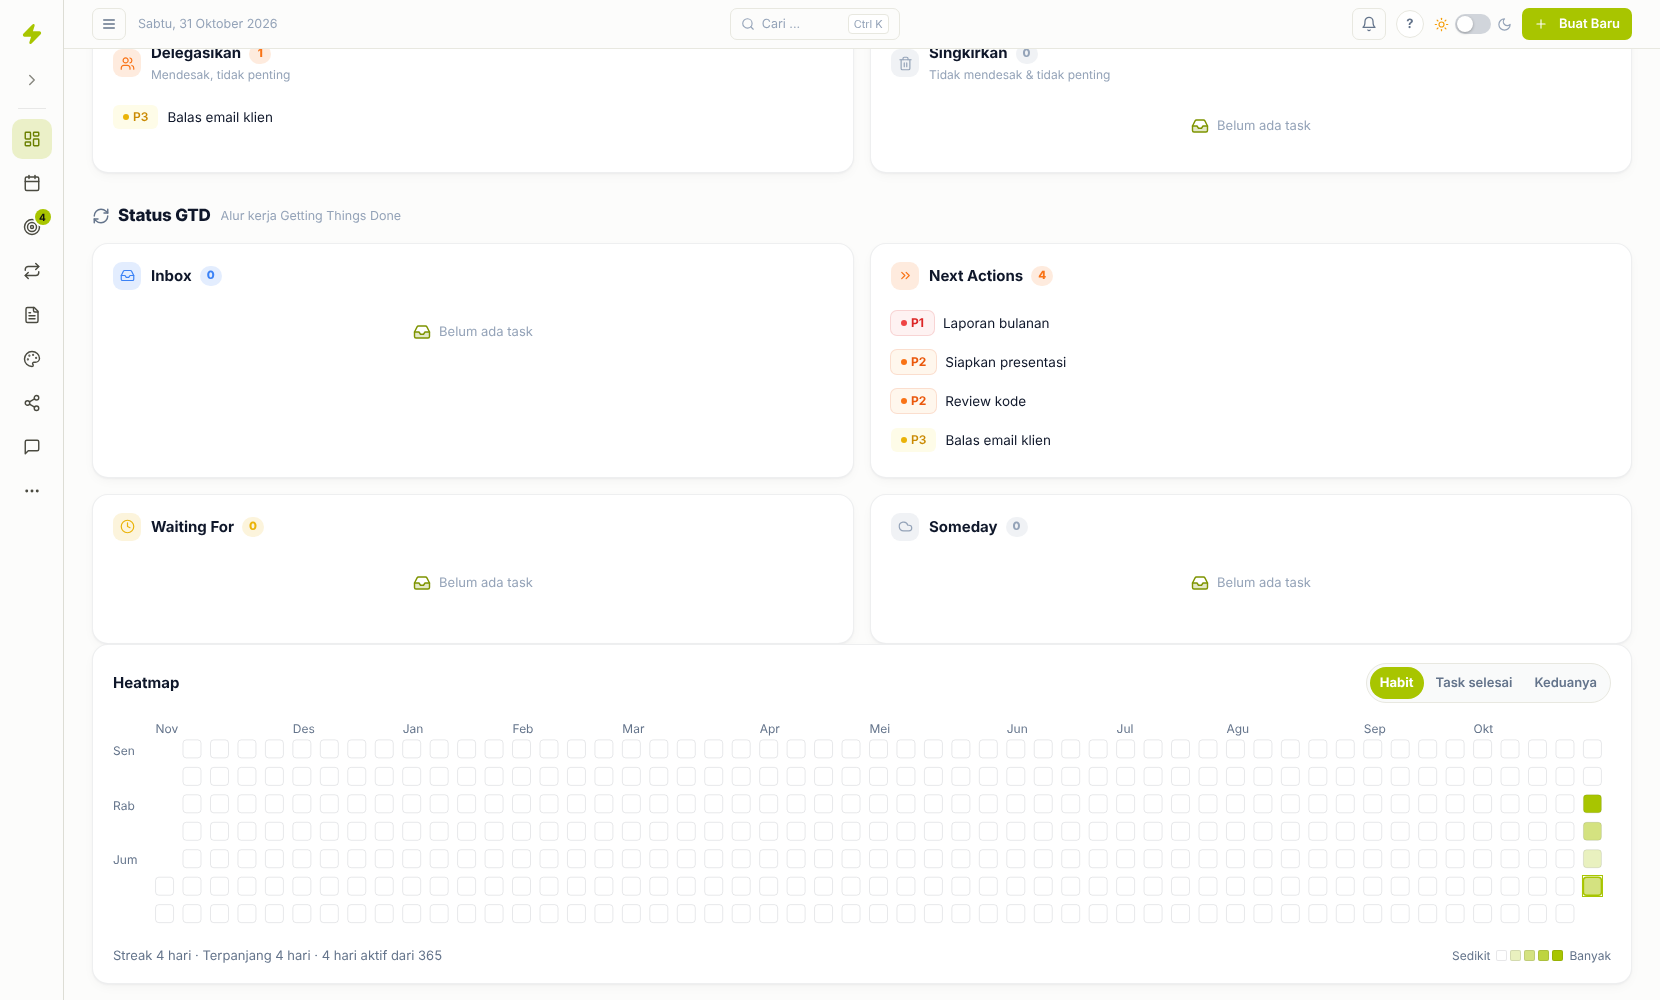
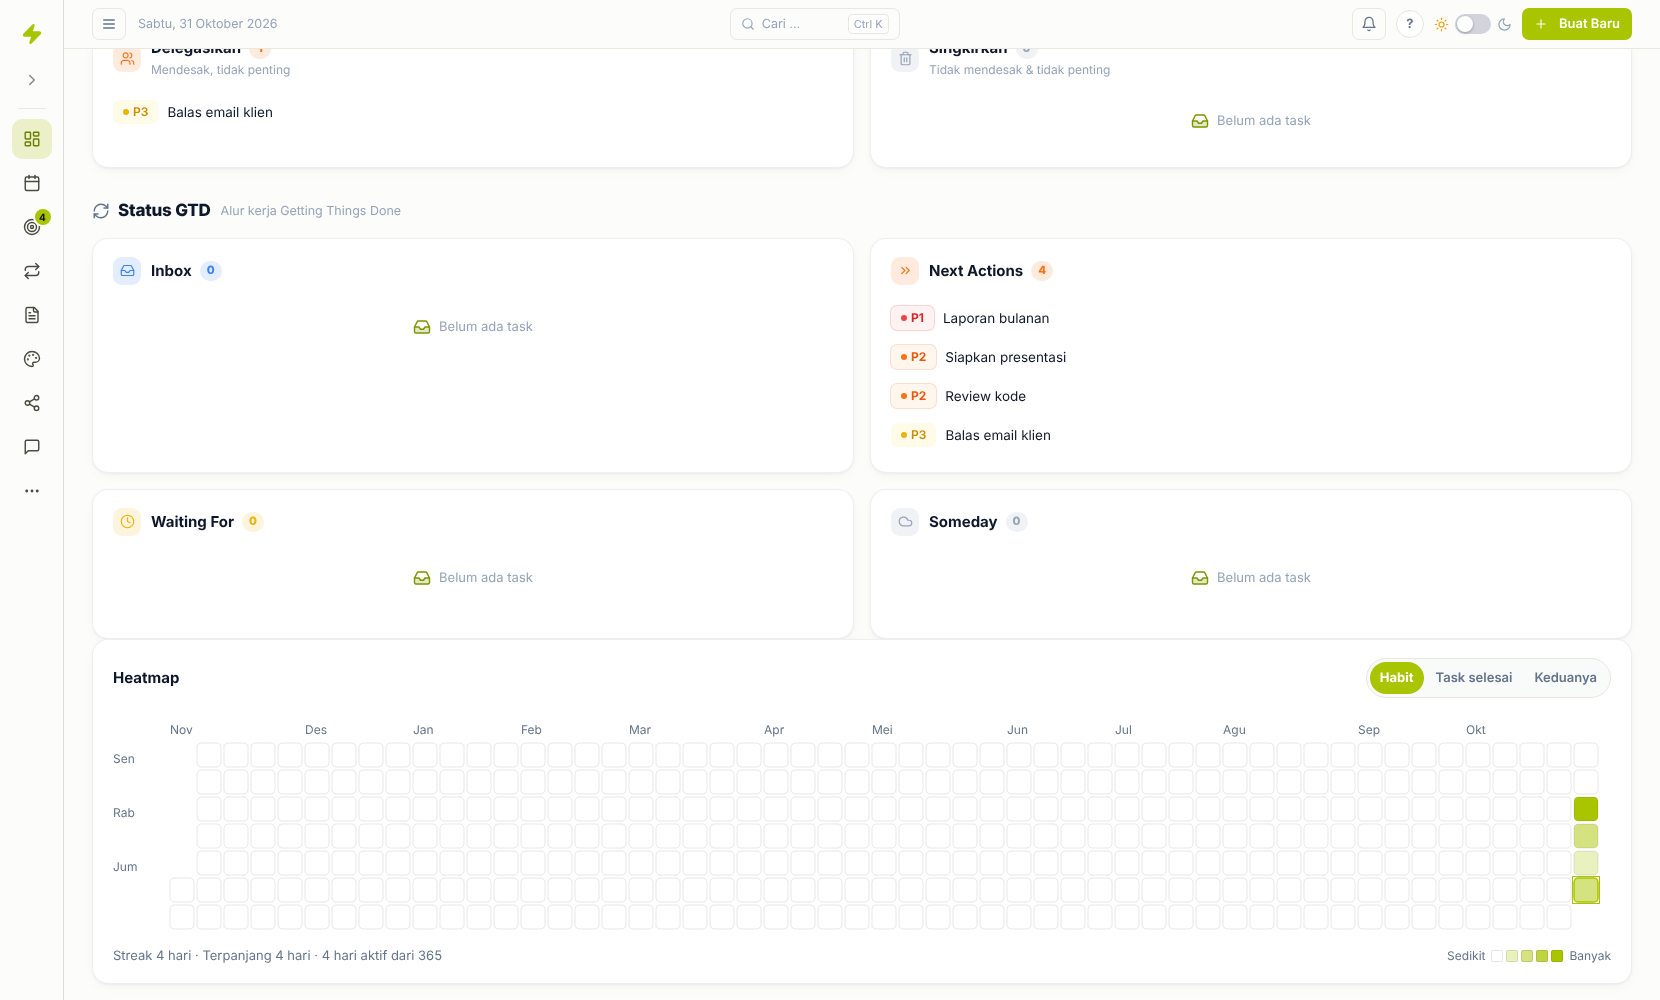
fix(plugin): heatmap memperbesar kotak, gap tetap rapat
Claude-Session: https://claude.ai/code/session_017DL2c7R2bzyzTD7wppPo72

diff --git a/tests/offline/habit_heatmap_ui.test.js b/tests/offline/habit_heatmap_ui.test.js
@@ -115,32 +115,45 @@ for (const cols of [53, 26]) {
   });
 }
 
-test("cellSize(containerWidth, cols): 11–18 px untuk lebar 600/1100/1600 (53 kolom), monoton, HP 26 kolom tetap 11", () => {
+test("cellSize(containerWidth, cols): 11–26 px untuk lebar 600/1100/1600 (53 kolom), monoton, HP 26 kolom tetap 11", () => {
   const sizes = [600, 1100, 1600].map((w) => H.cellSize(w, 53));
-  for (const c of sizes) assert.ok(c >= 11 && c <= 18, "dalam 11–18: " + c);
+  for (const c of sizes) assert.ok(c >= 11 && c <= 26 && Number.isInteger(c), "px utuh dalam 11–26: " + c);
   assert.ok(sizes[0] <= sizes[1] && sizes[1] <= sizes[2], "monoton: " + sizes);
   assert.equal(sizes[0], 11, "600 px terlalu sempit untuk 53 kolom → minimum 11");
-  assert.ok(sizes[1] > 11 && sizes[1] < 18, "1100 px di antara batas: " + sizes[1]);
-  assert.equal(sizes[2], 18, "1600 px → maksimum 18");
+  assert.ok(sizes[1] > 11 && sizes[1] < 26, "1100 px di antara batas: " + sizes[1]);
+  assert.ok(sizes[2] > 18 && sizes[2] <= 26, "1600 px → kotak membesar (> 18): " + sizes[2]);
+  assert.equal(H.cellSize(2500, 53), 26, "sangat lebar → maksimum 26");
   assert.equal(H.cellSize(343, 26), 11, "HP 375 px (kartu ±343 px) tetap 11 → scroll internal");
   assert.equal(H.cellSize(0, 53), 11, "belum terukur → 11");
   assert.equal(H.cellSize(undefined, 53), 11);
 });
 
-test("geometry: jarak ≈2–3 px selama kotak < 18; lebar grid = lebar kontainer saat kotak di antara batas; label ikut skala", () => {
+test("geometry: gap ≈14% kotak dibatasi 2–4 px (px utuh); grid ≥ 90% kontainer dan tidak melebihinya; batas 26 → sisa di kanan, gap tidak melebar", () => {
   const g11 = H.geometry(0, 53);
   assert.deepEqual([g11.cell, g11.gap, g11.step, g11.left, g11.top], [11, 2, 13, 26, 14], "fallback = tata letak 1.0");
   assert.equal(g11.font, 9);
+  for (const w of [900, 1100, 1300, 1498, 1600, 2500]) {
+    const g = H.geometry(w, 53);
+    assert.ok(Number.isInteger(g.cell) && Number.isInteger(g.gap) && Number.isInteger(g.left) && Number.isInteger(g.top), "px utuh @" + w);
+    assert.ok(g.gap >= 2 && g.gap <= 4, "gap 2–4 @" + w + ": " + g.gap);
+    assert.equal(g.gap, Math.min(4, Math.max(2, Math.round(g.cell * 0.14))), "gap ≈14% kotak @" + w);
+    assert.ok(g.width <= w, "tidak melebihi kontainer @" + w + ": " + g.width);
+    if (g.cell < 26) assert.ok(g.width >= 0.9 * w, "≥ 90% @" + w + ": " + g.width);
+  }
   const g = H.geometry(1100, 53);
-  assert.ok(g.gap >= 2 && g.gap <= 3, "gap " + g.gap);
-  assert.ok(Math.abs(g.width - 1100) < 1, "mengisi 1100: " + g.width);
   assert.ok(g.font > 9 && g.left > 26 && g.top > 14, "label ikut skala");
-  const w = H.geometry(1500, 53);
-  assert.equal(w.cell, 18);
-  assert.ok(w.width >= 0.9 * 1500 && w.width <= 1500, "kontainer sangat lebar tetap terisi ≥ 90%: " + w.width);
+  const w = H.geometry(1498, 53);
+  assert.ok(w.cell >= 22 && w.cell <= 26 && w.gap <= 4, "1660 px viewport (konten 1498): kotak ±24, gap ≤ 4: " + w.cell + "/" + w.gap);
+  const big = H.geometry(2500, 53);
+  assert.deepEqual([big.cell, big.gap], [26, 4], "batas 26: gap tetap 4, sisa ruang di kanan");
+  assert.ok(big.width < 2500);
   const m = H.geometry(343, 26);
   assert.equal(m.cell, 11);
   assert.ok(m.width > 343, "HP: grid lebih lebar → scroll internal");
+});
+
+test("legenda: kotak 12 px tetap", () => {
+  assert.match(css, /\.plg-heatmap-legend-cell\s*\{[^}]*width:\s*12px;[^}]*height:\s*12px;/);
 });
 
 test("HeatmapSvg memakai geo: ukuran kotak, langkah kolom, lebar svg, font label", () => {

diff --git a/static/plugins/habit-heatmap/plugin.js b/static/plugins/habit-heatmap/plugin.js
@@ -21,9 +21,13 @@ const METRIC_NAMES = {
   both: "habit dan task"
 };
 // Geometri dasar (1.0): kotak 11 px, jarak 2, kolom label hari 26, baris label bulan 14, font label 9.
-// 1.1: ukuran kotak mengikuti lebar kontainer, dibatasi CELL_MIN–CELL_MAX; label & tepi ikut skala.
+// 1.1: ukuran kotak mengikuti lebar kontainer, dibatasi CELL_MIN–CELL_MAX; jarak ≈ 14% kotak (2–4 px); kotak dan
+// jarak dibulatkan ke px utuh agar tajam; label & tepi ikut skala.
 const CELL_MIN = 11;
-const CELL_MAX = 18;
+const CELL_MAX = 26;
+const GAP_RATIO = 0.14;
+const GAP_MIN = 2;
+const GAP_MAX = 4;
 const K_LEFT = 26 / 11;
 const K_TOP = 14 / 11;
 const FONT_MAX = 12;
@@ -175,39 +179,31 @@ function svgLabel(metric, active) {
   return "Heatmap " + (METRIC_NAMES[metric] || METRIC_NAMES.habit) + ", " + active + " hari aktif";
 }
 const floor2 = v => Math.floor(v * 100) / 100;
+const gapFor = cell => Math.min(GAP_MAX, Math.max(GAP_MIN, Math.round(cell * GAP_RATIO)));
 
-// Tata letak grid untuk lebar kontainer `containerWidth` (px) dan `cols` kolom. Kotak CELL_MIN–CELL_MAX, jarak
-// ≈ kotak/6 (2–3 px). Kontainer lebih sempit dari grid minimum → kotak 11 (scroll internal seperti 1.0). Kontainer
-// lebih lebar dari grid maksimum → kotak tetap 18, sisa lebar dibagi ke jarak supaya grid tetap mengisi kartu.
+// Tata letak grid untuk lebar kontainer `containerWidth` (px) dan `cols` kolom. Kotak CELL_MIN–CELL_MAX px utuh,
+// jarak gapFor(kotak). Kontainer lebih sempit dari grid minimum → kotak 11 (scroll internal seperti 1.0). Kontainer
+// lebih lebar dari grid maksimum → kotak 26, sisa ruang di kanan (grid rata kiri; jarak tidak dilebarkan).
 // Belum terukur (0) → geometri 1.0.
 function geometry(containerWidth, cols) {
   const w = Number(containerWidth) > 0 ? Number(containerWidth) : 0;
-  let cell = w / (K_LEFT + cols * 7 / 6);
-  let gap = cell / 6;
-  if (gap < 2) {
-    cell = (w - 2 * cols) / (K_LEFT + cols);
-    gap = 2;
-  }
-  if (!(cell > CELL_MIN)) {
-    cell = CELL_MIN;
-    gap = 2;
-  } else if (cell >= CELL_MAX) {
-    cell = CELL_MAX;
-    gap = Math.max(3, (w - K_LEFT * CELL_MAX) / cols - CELL_MAX);
-  }
-  cell = floor2(cell);
-  gap = floor2(gap);
+  let cell = w / (K_LEFT + cols * (1 + GAP_RATIO));
+  for (let i = 0; i < 2; i++) cell = Math.floor((w - cols * gapFor(cell)) / (K_LEFT + cols));
+  cell = Math.min(CELL_MAX, Math.max(CELL_MIN, cell || 0));
+  const fits = c => Math.round(K_LEFT * c) + cols * (c + gapFor(c)) <= w;
+  while (cell > CELL_MIN && !fits(cell)) cell -= 1;
+  const gap = gapFor(cell);
   const step = cell + gap;
-  const left = floor2(K_LEFT * cell);
-  const top = floor2(K_TOP * cell);
+  const left = Math.round(K_LEFT * cell);
+  const top = Math.round(K_TOP * cell);
   return {
     cell,
     gap,
     step,
     left,
     top,
-    width: floor2(left + cols * step),
-    height: floor2(top + 7 * step),
+    width: left + cols * step,
+    height: top + 7 * step,
     font: floor2(Math.min(FONT_MAX, 9 * cell / 11)),
     rx: floor2(2 * cell / 11)
   };

diff --git a/static/plugins/habit-heatmap/plugin.jsx b/static/plugins/habit-heatmap/plugin.jsx
@@ -13,9 +13,13 @@ const DEBOUNCE_MS = 300;
 const METRICS = [["habit", "Habit"], ["task", "Task selesai"], ["both", "Keduanya"]];
 const METRIC_NAMES = { habit: "habit", task: "task selesai", both: "habit dan task" };
 // Geometri dasar (1.0): kotak 11 px, jarak 2, kolom label hari 26, baris label bulan 14, font label 9.
-// 1.1: ukuran kotak mengikuti lebar kontainer, dibatasi CELL_MIN–CELL_MAX; label & tepi ikut skala.
+// 1.1: ukuran kotak mengikuti lebar kontainer, dibatasi CELL_MIN–CELL_MAX; jarak ≈ 14% kotak (2–4 px); kotak dan
+// jarak dibulatkan ke px utuh agar tajam; label & tepi ikut skala.
 const CELL_MIN = 11;
-const CELL_MAX = 18;
+const CELL_MAX = 26;
+const GAP_RATIO = 0.14;
+const GAP_MIN = 2;
+const GAP_MAX = 4;
 const K_LEFT = 26 / 11;
 const K_TOP = 14 / 11;
 const FONT_MAX = 12;
@@ -145,25 +149,26 @@ function svgLabel(metric, active) {
 
 const floor2 = (v) => Math.floor(v * 100) / 100;
 
-// Tata letak grid untuk lebar kontainer `containerWidth` (px) dan `cols` kolom. Kotak CELL_MIN–CELL_MAX, jarak
-// ≈ kotak/6 (2–3 px). Kontainer lebih sempit dari grid minimum → kotak 11 (scroll internal seperti 1.0). Kontainer
-// lebih lebar dari grid maksimum → kotak tetap 18, sisa lebar dibagi ke jarak supaya grid tetap mengisi kartu.
+const gapFor = (cell) => Math.min(GAP_MAX, Math.max(GAP_MIN, Math.round(cell * GAP_RATIO)));
+
+// Tata letak grid untuk lebar kontainer `containerWidth` (px) dan `cols` kolom. Kotak CELL_MIN–CELL_MAX px utuh,
+// jarak gapFor(kotak). Kontainer lebih sempit dari grid minimum → kotak 11 (scroll internal seperti 1.0). Kontainer
+// lebih lebar dari grid maksimum → kotak 26, sisa ruang di kanan (grid rata kiri; jarak tidak dilebarkan).
 // Belum terukur (0) → geometri 1.0.
 function geometry(containerWidth, cols) {
   const w = Number(containerWidth) > 0 ? Number(containerWidth) : 0;
-  let cell = w / (K_LEFT + (cols * 7) / 6);
-  let gap = cell / 6;
-  if (gap < 2) { cell = (w - 2 * cols) / (K_LEFT + cols); gap = 2; }
-  if (!(cell > CELL_MIN)) { cell = CELL_MIN; gap = 2; }
-  else if (cell >= CELL_MAX) { cell = CELL_MAX; gap = Math.max(3, (w - K_LEFT * CELL_MAX) / cols - CELL_MAX); }
-  cell = floor2(cell);
-  gap = floor2(gap);
+  let cell = w / (K_LEFT + cols * (1 + GAP_RATIO));
+  for (let i = 0; i < 2; i++) cell = Math.floor((w - cols * gapFor(cell)) / (K_LEFT + cols));
+  cell = Math.min(CELL_MAX, Math.max(CELL_MIN, cell || 0));
+  const fits = (c) => Math.round(K_LEFT * c) + cols * (c + gapFor(c)) <= w;
+  while (cell > CELL_MIN && !fits(cell)) cell -= 1;
+  const gap = gapFor(cell);
   const step = cell + gap;
-  const left = floor2(K_LEFT * cell);
-  const top = floor2(K_TOP * cell);
+  const left = Math.round(K_LEFT * cell);
+  const top = Math.round(K_TOP * cell);
   return {
     cell, gap, step, left, top,
-    width: floor2(left + cols * step), height: floor2(top + 7 * step),
+    width: left + cols * step, height: top + 7 * step,
     font: floor2(Math.min(FONT_MAX, (9 * cell) / 11)), rx: floor2((2 * cell) / 11),
   };
 }

diff --git a/static/plugins/habit-heatmap/style.css b/static/plugins/habit-heatmap/style.css
@@ -15,4 +15,4 @@
 .plg-heatmap-legend { display: inline-flex; align-items: center; gap: 3px; margin-left: auto; font-size: 12px; color: var(--text-secondary); }
 .plg-heatmap-legend > span:first-child { margin-right: 3px; }
 .plg-heatmap-legend > span:last-child { margin-left: 3px; }
-.plg-heatmap-legend-cell { width: 11px; height: 11px; border-radius: 2px; box-shadow: inset 0 0 0 1px color-mix(in srgb, var(--text-primary) 10%, transparent); }
+.plg-heatmap-legend-cell { width: 12px; height: 12px; border-radius: 2px; box-shadow: inset 0 0 0 1px color-mix(in srgb, var(--text-primary) 10%, transparent); }

diff --git a/static/sw.js b/static/sw.js
@@ -14,8 +14,8 @@ const STATIC = [
   "/static/plugin-runtime.js",
   // plugins:begin — ditulis compile.js dari static/plugins/index.json, jangan edit manual
   "/static/plugins/index.json",
-  "/static/plugins/habit-heatmap/plugin.js?v=a8dcbfa3",
-  "/static/plugins/habit-heatmap/style.css?v=a8dcbfa3",
+  "/static/plugins/habit-heatmap/plugin.js?v=aff4ba9b",
+  "/static/plugins/habit-heatmap/style.css?v=aff4ba9b",
   // plugins:end
   "/static/offline/ids.js",
   "/static/offline/db.js",

diff --git a/temporary_files/e2e_plugin_fase0a.py b/temporary_files/e2e_plugin_fase0a.py
@@ -197,16 +197,18 @@ def run(browser, base, user):
         wide = p.evaluate("""sel => { const c = document.querySelector(sel); const cs = getComputedStyle(c);
             const content = c.clientWidth - parseFloat(cs.paddingLeft) - parseFloat(cs.paddingRight);
             const sv = c.querySelector('svg').getBoundingClientRect(); const r = c.querySelector('rect').getBoundingClientRect();
+            const xs = [...new Set([...c.querySelectorAll('rect')].map(x => +x.getAttribute('x')))].sort((a, b) => a - b);
+            const gap = xs[1] - xs[0] - +c.querySelector('rect').getAttribute('width');
             const s = c.querySelector('.plg-heatmap-scroll'); const de = document.documentElement;
             const lg = c.querySelector('.plg-heatmap-legend').getBoundingClientRect();
             const sm = c.querySelector('.plg-heatmap-summary').getBoundingClientRect();
-            return { content, svgW: sv.width, cell: r.width, scrollSW: s.scrollWidth, scrollCW: s.clientWidth,
+            return { content, svgW: sv.width, cell: r.width, gap, scrollSW: s.scrollWidth, scrollCW: s.clientWidth,
                      docSW: de.scrollWidth, docCW: de.clientWidth, legendRight: lg.right, cardRight: c.getBoundingClientRect().right
                        - parseFloat(cs.paddingRight) - parseFloat(cs.borderRightWidth), sameRow: Math.abs(lg.top - sm.top) < 8 }; }""", CARD)
-        ok1660 = (wide["svgW"] >= 0.9 * wide["content"] and 11 <= wide["cell"] <= 18.01
+        ok1660 = (wide["svgW"] >= 0.9 * wide["content"] and 11 <= wide["cell"] <= 26.01 and 2 <= wide["gap"] <= 4
                   and wide["scrollSW"] <= wide["scrollCW"] and wide["docSW"] <= wide["docCW"]
                   and wide["sameRow"] and abs(wide["legendRight"] - wide["cardRight"]) < 2)
-        check("1.1b 1660px: lebar svg ≥ 90%% konten kartu, kotak 11–18, tanpa scroll, legenda kanan sejajar ringkasan", ok1660,
+        check("1.1b 1660px: lebar svg ≥ 90%% konten kartu, kotak 11–26, gap ≤ 4 px, tanpa scroll, legenda kanan sejajar ringkasan", ok1660,
               repr(wide))
         p.locator(CARD).scroll_into_view_if_needed()
         shot(p, "1660-dashboard.png")

diff --git a/.agents/CURRENT_STATE.md b/.agents/CURRENT_STATE.md
@@ -1,9 +1,9 @@
 ## 🟡 Heatmap Habit 1.1 (lebar penuh, legenda, streak terpanjang) — `claude/heatmap-v1-1` — 2026-10-31 (Claude) — PR DRAFT, menunggu merge dan deploy
 - **Permintaan Bapak:** di layar lebar (±1660 px) grid heatmap hanya ±60% lebar kartu; minta dirapikan.
-- **Isi (`static/plugins/habit-heatmap/`, manifest 1.1.0):** fungsi murni `geometry(containerWidth, cols)` + `cellSize` — kotak 11–18 px, jarak ≈ kotak/6 (2–3 px), label hari/bulan, tepi, `rx` dan font (maks 12) ikut skala; lebar area grid diukur `ResizeObserver` (`useLayoutEffect`), geometri di-memo terpisah `[boxW, cols]`, grid/bucket tetap memo `[src, metric, today, wide]` + `React.memo` (tidak dihitung ulang tiap detik Pomodoro). Kontainer lebih lebar dari grid maksimum (53 × 18 px) → kotak tetap 18, sisa lebar dibagi ke jarak (di 1660 px: jarak ±9,5 px) supaya grid tetap mengisi kartu. HP: 26 kolom, kotak 11, scroll internal seperti 1.0. Legenda `Legend` ("Sedikit", 5 kotak `levelFill(0–4)`, "Banyak") kanan bawah sejajar ringkasan (`.plg-heatmap-foot` flex-wrap; di HP turun ke baris bawah). Ringkasan `Streak {n} hari · Terpanjang {m} hari · {a} hari aktif dari {d}` (`longestStreak(counts)` baru). Svg `role="img"` + `aria-label` `svgLabel` ("Heatmap habit, 87 hari aktif"); `<title>` sel tidak berubah. Token warna saja.
+- **Isi (`static/plugins/habit-heatmap/`, manifest 1.1.0):** fungsi murni `geometry(containerWidth, cols)` + `cellSize` — kotak 11–26 px utuh, jarak ≈ 14% kotak dibatasi 2–4 px (px utuh, tepi kiri/atas dibulatkan agar tajam), label hari/bulan, tepi, `rx` dan font (maks 12) ikut skala; lebar area grid diukur `ResizeObserver` (`useLayoutEffect`), geometri di-memo terpisah `[boxW, cols]`, grid/bucket tetap memo `[src, metric, today, wide]` + `React.memo` (tidak dihitung ulang tiap detik Pomodoro). Kontainer lebih lebar dari grid maksimum (kotak 26) → sisa ruang di kanan (grid rata kiri), jarak tidak dilebarkan. Di 1660 px: kotak 24, jarak 3, svg 1488 dari 1498 px. HP: 26 kolom, kotak 11, scroll internal seperti 1.0. Legenda `Legend` ("Sedikit", 5 kotak 12 px `levelFill(0–4)`, "Banyak") kanan bawah sejajar ringkasan (`.plg-heatmap-foot` flex-wrap; di HP turun ke baris bawah). Ringkasan `Streak {n} hari · Terpanjang {m} hari · {a} hari aktif dari {d}` (`longestStreak(counts)` baru). Svg `role="img"` + `aria-label` `svgLabel` ("Heatmap habit, 87 hari aktif"); `<title>` sel tidak berubah. Token warna saja.
 - **Rilis:** SW `taskflow-v489-heatmap-rapi`, `app.css?v=382` tetap, whatsnew v489 ("Heatmap Habit lebih rapi"). File statis saja.
-- **Verifikasi:** `npm test` 3591/3592 (pra-ada `draw_local_reactive`; +7 tes heatmap), pytest 1250/1 skip (sama dengan `main`), PROTOCOL §4 33, `check_inline_scripts` OK (6), `compile.js` idempoten; E2E `temporary_files/e2e_plugin_fase0a.py` 20/20 (cek baru 1.1a ringkasan/legenda/aria, 1.1b 1660 px: svg 1497,9 dari konten 1498 px, kotak 18, tanpa scroll; 375 px tanpa scroll halaman). Tangkapan `temporary_files/e2e_plugin_fase0a/{1660-dashboard,1660-card,375-dashboard,375-card}.png`.
-- **Catatan keputusan:** batas kotak 18 px + jarak 2–3 px tidak cukup untuk mengisi ≥ 90% konten kartu 1498 px (maks ±1150 px = 77%); dipilih jarak melebar di atas 1300 px kontainer. Bila Bapak lebih suka kotak > 18 px (jarak tetap ±3) cukup ubah `CELL_MAX` + tes `cellSize`.
+- **Verifikasi:** `npm test` 3592/3593 (pra-ada `draw_local_reactive`; +8 tes heatmap), pytest 1250/1 skip (sama dengan `main`), PROTOCOL §4 33, `check_inline_scripts` OK (6), `compile.js` idempoten; E2E `temporary_files/e2e_plugin_fase0a.py` 20/20 (cek baru 1.1a ringkasan/legenda/aria, 1.1b 1660 px: svg 1488 dari konten 1498 px (99%), kotak 24, gap 3 (≤ 4), tanpa scroll; 375 px tanpa scroll halaman). Tangkapan `temporary_files/e2e_plugin_fase0a/{1660-dashboard,1660-card,375-dashboard,375-card}.png`.
+- **Catatan keputusan:** batas awal kotak 18 px + jarak 2–3 px tidak cukup mengisi ≥ 90% konten kartu 1498 px (maks ±77%). Versi pertama melebarkan jarak; keputusan koordinator (commit `fix(plugin)` terpisah): kotak yang membesar (`CELL_MAX = 26`), jarak tetap rapat 2–4 px.
 
 ## 🟡 Sistem plugin Fase 0a (runtime klien + Heatmap Habit) — `claude/plugin-fase0a` — 2026-10-31 (Claude) — DI-MERGE (#115, 5402f50) atas "merge dan deploy" Bapak 08:37 WIB; deploy workflow sukses (file statis)
 - **Spec / plan:** `docs/superpowers/specs/2026-10-29-plugin-fase0a-design.md` (keputusan Bapak 2026-10-31: status per perangkat, toggle bisa offline, plugin #0 Heatmap Habit, istilah "Plugin"), `docs/superpowers/plans/2026-10-31-plugin-fase0a.md`; ADR-037; panduan pembuat plugin `docs/plugins/README.md`.

diff --git a/.agents/SESSION_LOG.md b/.agents/SESSION_LOG.md
@@ -4291,3 +4291,4 @@
 - **Changes:** `geometry`/`cellSize` + ResizeObserver, `Legend`, `longestStreak`, `svgLabel`, ringkasan baru, CSS foot/legenda; manifest 1.1.0; SW v489 + whatsnew; tes heatmap (TDD) + tes versi; E2E 1660/375 px.
 - **Files Touch:** static/plugins/habit-heatmap/*, static/plugins/index.json, static/sw.js, static/index.html, static/whatsnew.json, tests/offline/habit_heatmap_{logic,ui}.test.js + tes versi, temporary_files/e2e_plugin_fase0a.py, temporary_files/e2e_plugin_fase0a/*.png, .agents/*
 - **Status:** Needs Review (PR draft). npm 3591/3592 (pra-ada), pytest 1250/1 skip, E2E 20/20.
+- 2026-10-31 (Claude): keputusan koordinator — heatmap memperbesar kotak (11–26 px, gap ≈14% dibatasi 2–4 px, px utuh), sisa ruang di kanan; legenda 12 px. npm 3592/3593 (pra-ada), pytest 1250/1 skip, E2E 20/20 (1660 px: kotak 24, gap 3, svg 1488/1498). Commit terpisah `fix(plugin)`.
